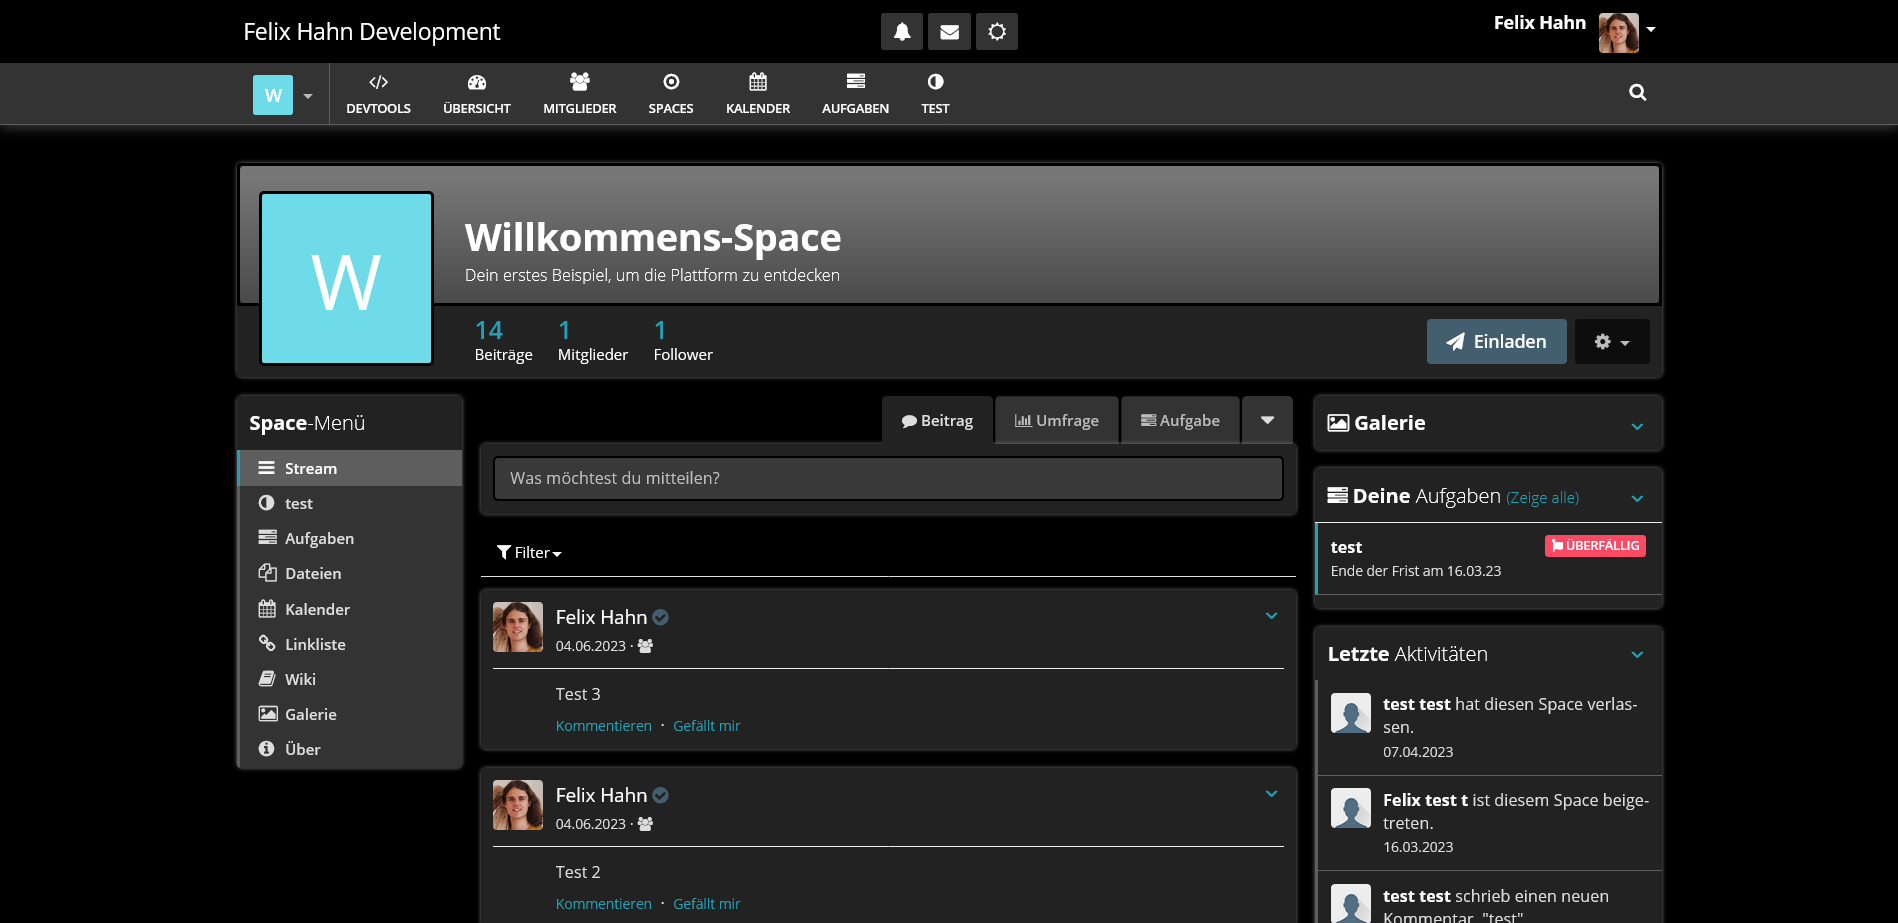
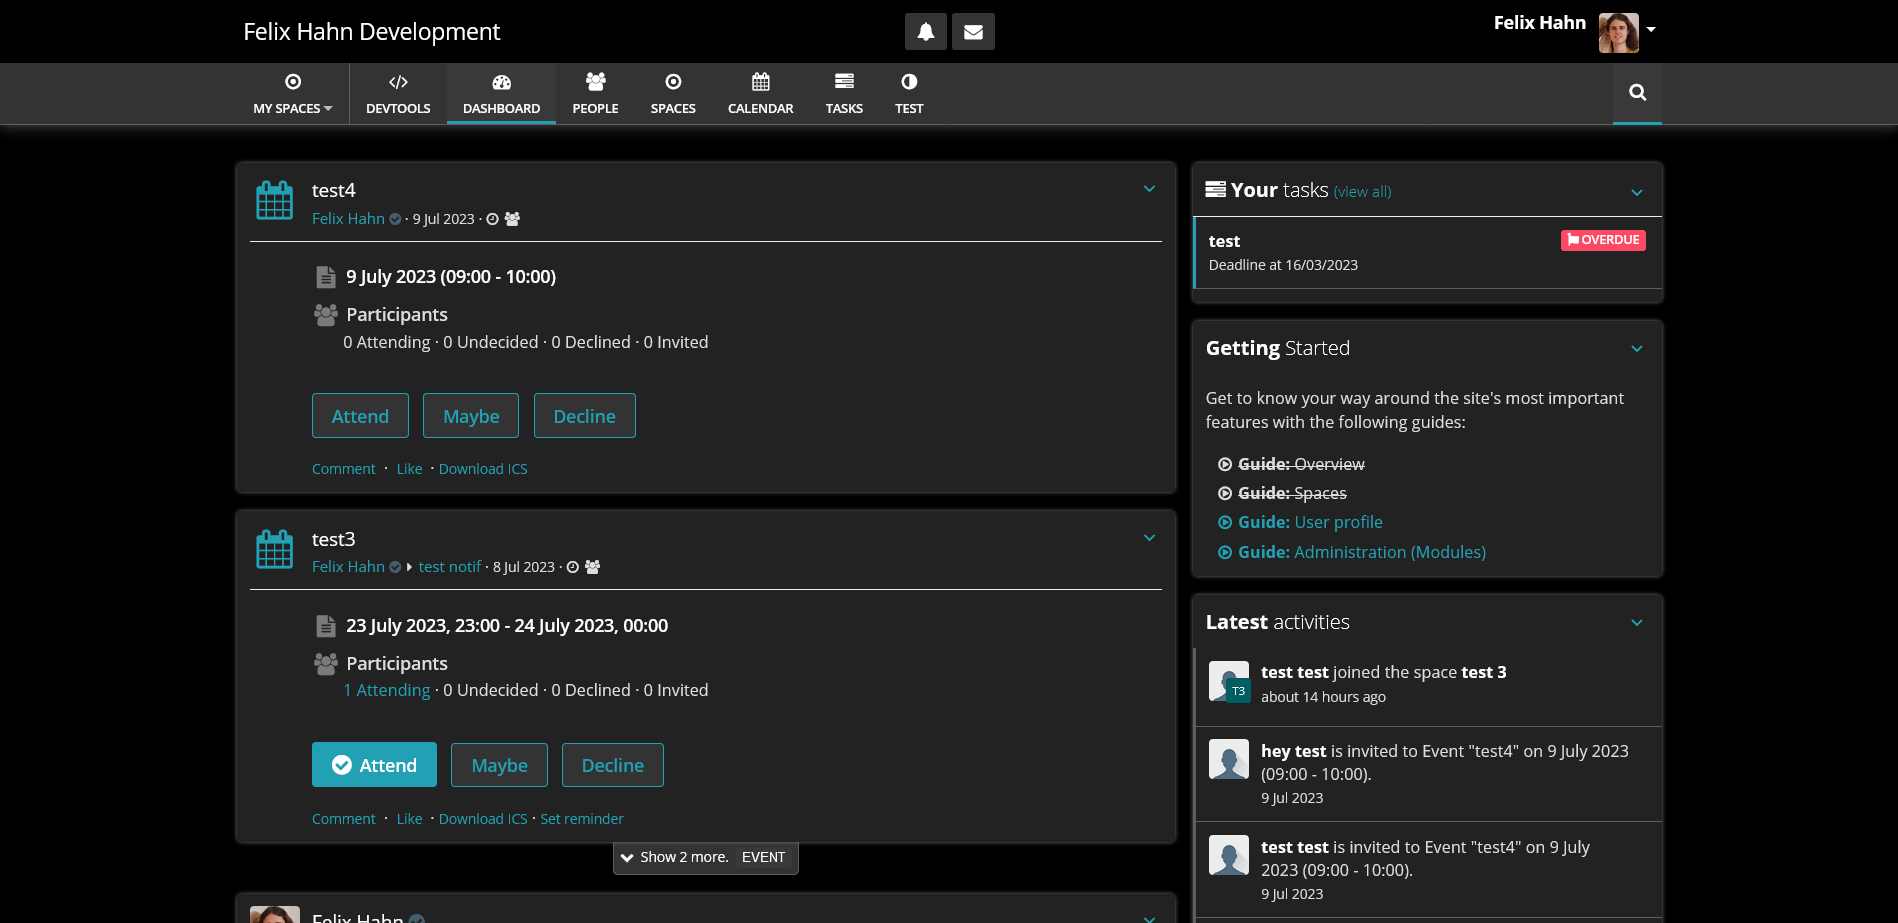
update class names, documentation etc.

Changed region(s): [[0.1243, 0.0, 0.9015, 1.0]]

diff --git a/config.php b/config.php
@@ -1,7 +1,7 @@
 <?php
 
 use yii\base\Event;
-use humhub\widgets\NotificationArea;
+use humhub\widgets\LayoutAddons;
 use humhub\modules\darkMode\Events;
 
 return [
@@ -9,6 +9,6 @@ return [
     'class' => 'humhub\modules\darkMode\Module',
     'namespace' => 'humhub\modules\darkMode',
     'events' => [
-        ['class' => NotificationArea::class, 'event' => NotificationArea::EVENT_INIT, 'callback' => [Events::class, 'onNotificationAddonInit']],
+        ['class' => LayoutAddons::class, 'event' => LayoutAddons::EVENT_INIT, 'callback' => [Events::class, 'onLayoutAddonsInit']],
     ]
 ];

diff --git a/Events.php b/Events.php
@@ -2,12 +2,12 @@
 
 namespace humhub\modules\darkMode;
 
-use humhub\modules\darkMode\widgets\SwitchButton;
+use humhub\modules\darkMode\widgets\DarkStyle;
 
 class Events
 {
-    public static function onNotificationAddonInit($event)
+    public static function onLayoutAddonsInit($event)
     {
-        $event->sender->addWidget(SwitchButton::class, [], ['sortOrder' => 200]);
+        $event->sender->addWidget(DarkStyle::class);
     }
 }

diff --git a/models/Config.php b/models/Config.php
@@ -3,7 +3,6 @@
 namespace humhub\modules\darkMode\models;
 
 use humhub\modules\ui\view\helpers\ThemeHelper;
-use humhub\libs\DynamicConfig;
 use Yii;
 
 /**
@@ -49,8 +48,6 @@ class Config extends \yii\base\Model
         $settings = Yii::$app->getModule('dark-mode')->settings;
         
         $settings->set('theme', $this->theme);
-        
-        DynamicConfig::rewrite();
 
         return true;
     }

diff --git a/widgets/DarkStyle.php b/widgets/DarkStyle.php
@@ -1,0 +1,20 @@
+<?php
+
+namespace humhub\modules\darkMode\widgets;
+
+use humhub\modules\darkMode\assets\DarkStyleAsset;
+use humhub\components\Widget;
+
+/**
+ * Adds the dark style asset
+ */
+class DarkStyle extends Widget
+{
+    public function run()
+    {
+        $view = $this->getView();
+        DarkStyleAsset::register($view);
+
+        return '';
+    }
+}

diff --git a/docs/README.md b/docs/README.md
@@ -8,13 +8,8 @@ It provides a default dark theme based on the community theme.
 
 In the module settings you can select a custom dark theme or use the default DarkHumHub theme.
 
-When your browser is in dark mode, he is told to fetch the additional dark stylesheet that overwrites the default styles. 
-This way no cookies will be used for the dark mode.
-
-## To do
-- rename classes and files
-- move view file to layoutAddons
-- further testing
+When your browser is in dark mode, he will fetch the additional dark stylesheet that overwrites the default styles. 
+This way no cookie will be used for the dark mode.
 
 ## Credits
 

diff --git a/docs/CHANGELOG.md b/docs/CHANGELOG.md
@@ -1,5 +1,14 @@
 Changelog
 =========
+## 1.0.0-beta2 (TBA)
+- Remove switch button (browser dark mode is used instead) - removes use of cookie and javascript
+- make dark theme selectable (configuration page added)
+- move stylesheet into new "DarkHumHub" theme
+- add CSS "!important" rules for external modules in default dark theme
+
+## 1.0.0-beta1 (8/6/2023)
+- update documentation
+
 ## 0.2.1 (6/6/2023)
 - Enh: add SameSite attribute to cookie
 - Enh: documentation
